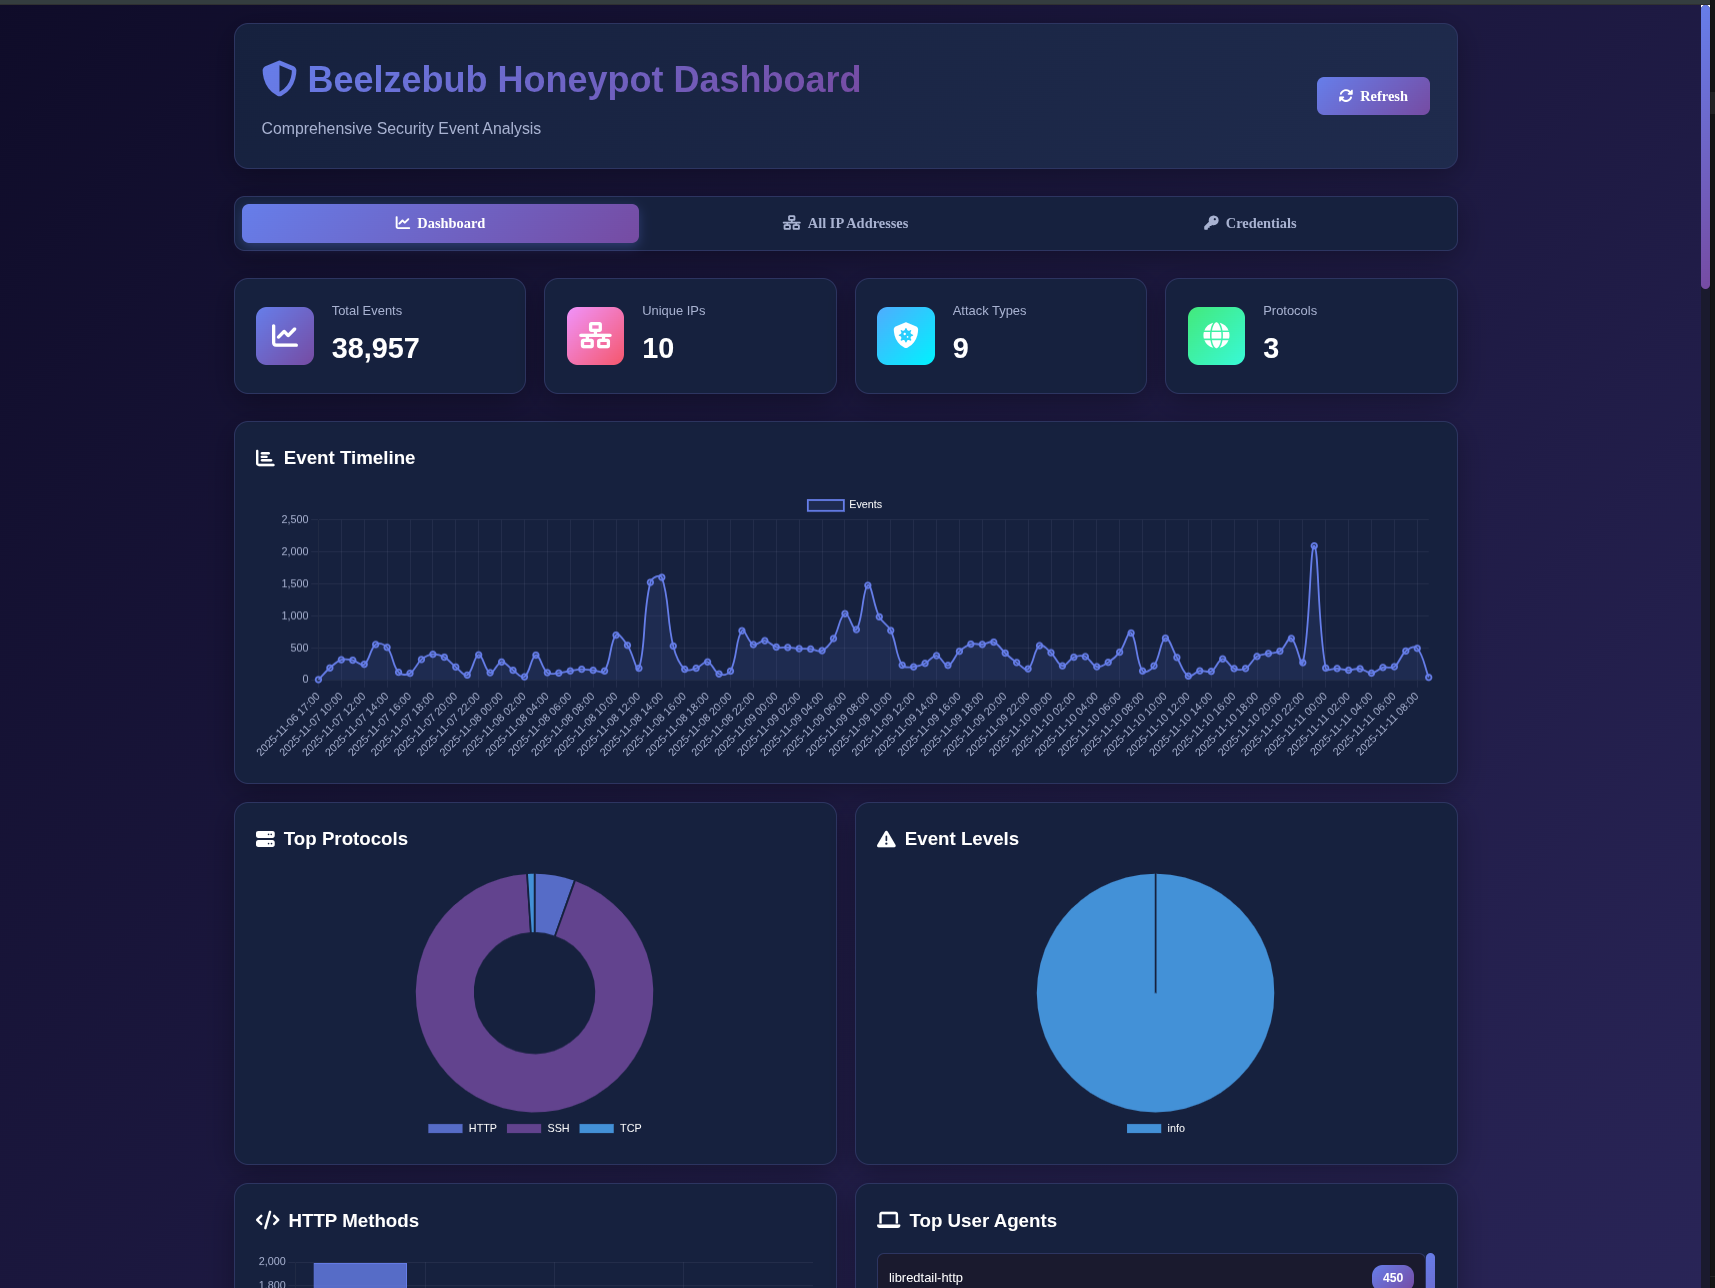
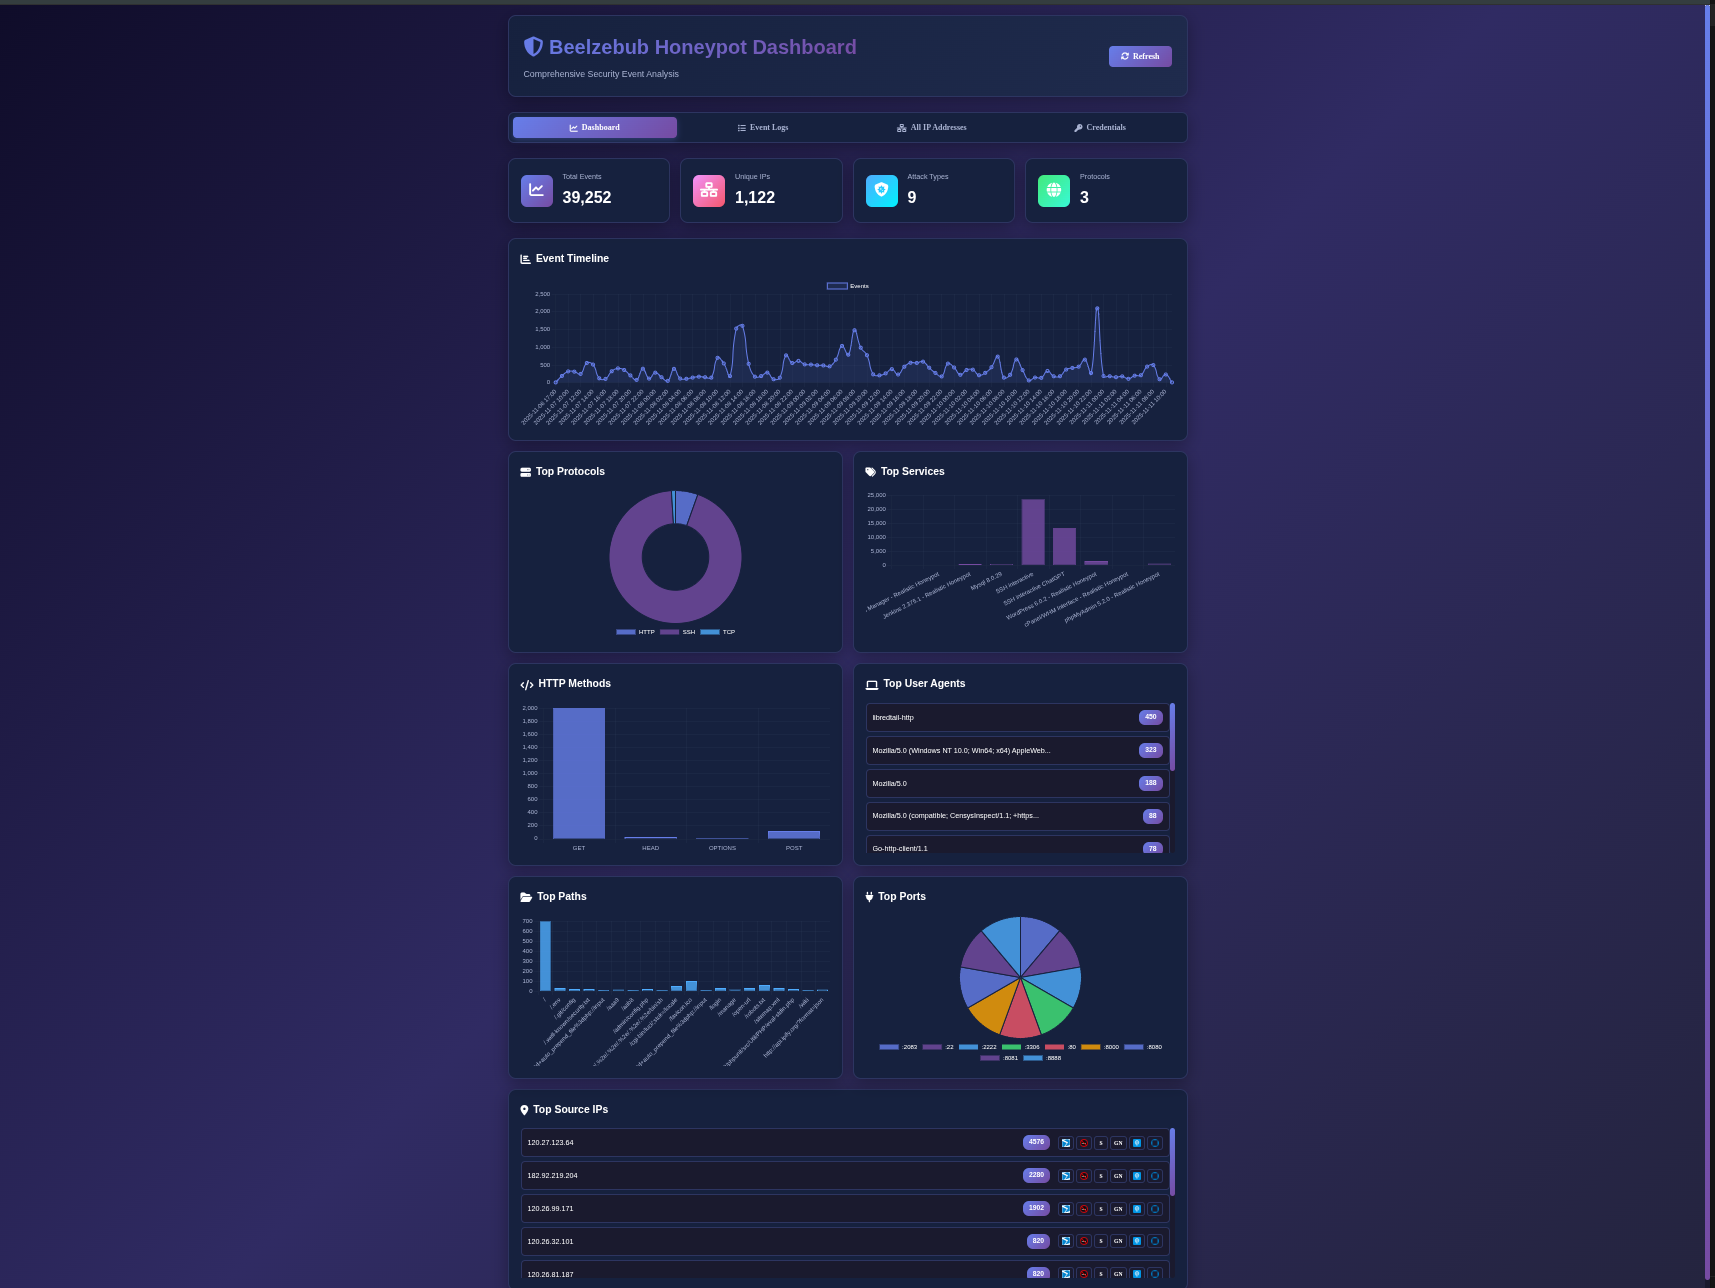
update

Changed region(s): [[0.0, 0.0, 1.0, 1.0], [0.5872, 0.1242, 0.649, 0.1863]]

diff --git a/static/js/app.js b/static/js/app.js
@@ -199,15 +199,17 @@ async function loadStatistics() {
 
         // Update stat cards
         document.getElementById('totalEvents').textContent = stats.total_events.toLocaleString();
-        document.getElementById('uniqueIPs').textContent = Object.keys(stats.top_ips).length;
+        document.getElementById('uniqueIPs').textContent = (stats.unique_ips || 0).toLocaleString();
         document.getElementById('attackTypes').textContent = Object.keys(stats.descriptions).length;
         document.getElementById('protocolCount').textContent = Object.keys(stats.protocols).length;
 
         // Render charts
         renderTimelineChart(stats.timeline);
         renderProtocolChart(stats.protocols);
-        renderLevelChart(stats.levels);
         renderMethodChart(stats.http_methods);
+        renderDescriptionChart(stats.descriptions);
+        renderPathChart(stats.top_paths);
+        renderPortChart(stats.ports);
         renderIPList(stats.top_ips);
         renderUserAgentList(stats.top_user_agents);
 
@@ -602,6 +604,97 @@ function renderTimelineChart(data) {
                         color: 'rgba(168, 178, 209, 0.1)'
                     }
                 }
+            }
+        }
+    });
+}
+
+// Render top services (descriptions) chart
+function renderDescriptionChart(data) {
+    const ctx = document.getElementById('descriptionChart');
+    if (!ctx) return;
+    if (charts.descriptions) charts.descriptions.destroy();
+    charts.descriptions = new Chart(ctx, {
+        type: 'bar',
+        data: {
+            labels: Object.keys(data),
+            datasets: [{
+                label: 'Top Services',
+                data: Object.values(data),
+                backgroundColor: 'rgba(118, 75, 162, 0.8)',
+                borderColor: 'rgba(118, 75, 162, 1)',
+                borderWidth: 1
+            }]
+        },
+        options: {
+            responsive: true,
+            maintainAspectRatio: true,
+            plugins: { legend: { display: false }, tooltip: { intersect: false } },
+            scales: {
+                x: { ticks: { color: '#a8b2d1' }, grid: { color: 'rgba(168, 178, 209, 0.1)' } },
+                y: { ticks: { color: '#a8b2d1' }, grid: { color: 'rgba(168, 178, 209, 0.1)' } }
+            }
+        }
+    });
+}
+
+// Render top paths chart
+function renderPathChart(data) {
+    const ctx = document.getElementById('pathChart');
+    if (!ctx) return;
+    if (charts.paths) charts.paths.destroy();
+    charts.paths = new Chart(ctx, {
+        type: 'bar',
+        data: {
+            labels: Object.keys(data),
+            datasets: [{
+                label: 'Top Paths',
+                data: Object.values(data),
+                backgroundColor: 'rgba(79, 172, 254, 0.8)',
+                borderColor: 'rgba(79, 172, 254, 1)',
+                borderWidth: 1
+            }]
+        },
+        options: {
+            responsive: true,
+            maintainAspectRatio: true,
+            plugins: { legend: { display: false }, tooltip: { intersect: false } },
+            scales: {
+                x: { ticks: { color: '#a8b2d1', maxRotation: 45, minRotation: 45 }, grid: { color: 'rgba(168, 178, 209, 0.1)' } },
+                y: { ticks: { color: '#a8b2d1' }, grid: { color: 'rgba(168, 178, 209, 0.1)' } }
+            }
+        }
+    });
+}
+
+// Render ports chart
+function renderPortChart(data) {
+    const ctx = document.getElementById('portChart');
+    if (!ctx) return;
+    if (charts.ports) charts.ports.destroy();
+    charts.ports = new Chart(ctx, {
+        type: 'pie',
+        data: {
+            labels: Object.keys(data),
+            datasets: [{
+                data: Object.values(data),
+                backgroundColor: [
+                    'rgba(102, 126, 234, 0.8)',
+                    'rgba(118, 75, 162, 0.8)',
+                    'rgba(79, 172, 254, 0.8)',
+                    'rgba(67, 233, 123, 0.8)',
+                    'rgba(245, 87, 108, 0.8)',
+                    'rgba(255, 165, 2, 0.8)'
+                ],
+                borderWidth: 2,
+                borderColor: '#16213e'
+            }]
+        },
+        options: {
+            responsive: true,
+            maintainAspectRatio: true,
+            plugins: {
+                legend: { position: 'bottom', labels: { color: '#ffffff' } }
             }
         }
     });

diff --git a/templates/index.html b/templates/index.html
@@ -97,8 +97,8 @@
                 </div>
 
                 <div class="chart-container chart-small">
-                    <h3><i class="fas fa-exclamation-triangle"></i> Event Levels</h3>
-                    <canvas id="levelChart"></canvas>
+                    <h3><i class="fas fa-tags"></i> Top Services</h3>
+                    <canvas id="descriptionChart"></canvas>
                 </div>
             </div>
 
@@ -111,6 +111,17 @@
                 <div class="chart-container chart-small">
                     <h3><i class="fas fa-laptop"></i> Top User Agents</h3>
                     <div id="userAgentList" class="list-container"></div>
+                </div>
+            </div>
+
+            <div class="chart-row">
+                <div class="chart-container chart-small">
+                    <h3><i class="fas fa-folder-open"></i> Top Paths</h3>
+                    <canvas id="pathChart"></canvas>
+                </div>
+                <div class="chart-container chart-small">
+                    <h3><i class="fas fa-plug"></i> Top Ports</h3>
+                    <canvas id="portChart"></canvas>
                 </div>
             </div>
 

diff --git a/templates/events.html b/templates/events.html
@@ -156,6 +156,15 @@
         </div>
     </div>
 
+    <!-- IP Analysis Modal -->
+    <div id="ipModal" class="modal">
+        <div class="modal-content modal-large">
+            <span class="close-ip">&times;</span>
+            <h2><i class="fas fa-search"></i> IP Analysis: <span id="ipAnalysisTitle"></span></h2>
+            <div id="ipAnalysisContent" class="ip-analysis-content"></div>
+        </div>
+    </div>
+
     <script src="https://cdn.jsdelivr.net/npm/chart.js@4.4.0/dist/chart.umd.min.js"></script>
     <script src="{{ url_for('static', filename='js/app.js') }}"></script>
 </body>

diff --git a/app.py b/app.py
@@ -203,6 +203,7 @@ def get_statistics():
     # Convert to lists for JSON
     return jsonify({
         'total_events': stats['total_events'],
+        'unique_ips': len(stats['source_ips']),
         'protocols': dict(stats['protocols'].most_common(10)),
         'levels': dict(stats['levels']),
         'top_ips': dict(stats['source_ips'].most_common(10)),
